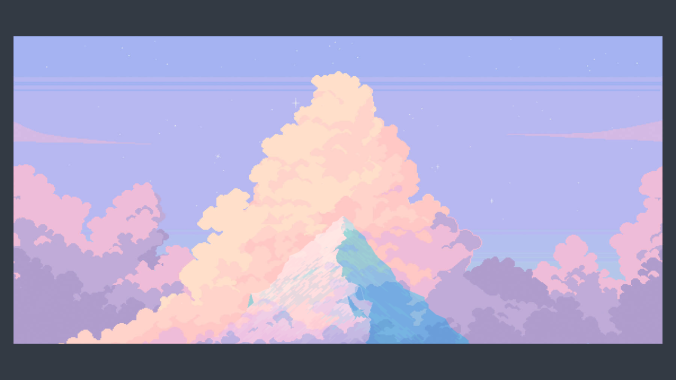
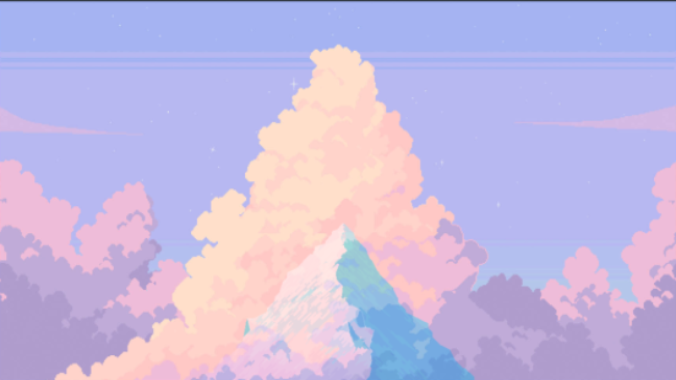
An update was made to the code to fix some images in the game.

diff --git a/code/Const.py b/code/Const.py
@@ -15,19 +15,19 @@ ENTITY_SPEED = {
     'Level1BG3': 3,
     'Level1BG4': 4,
     'Level2BG0': 0,
-    'Level2BG1': 1,
-    'Level2BG2': 2,
-    'Level2BG3': 3,
+    'Level2BG1': 0.50,
+    'Level2BG2': 1,
+    'Level2BG3': 2,
     'Level2BG4': 4,
     'Level3BG0': 0,
     'Level3BG1': 1,
-    'Level3BG2': 2,
-    'Level3BG3': 3,
+    'Level3BG2': 1,
+    'Level3BG3': 2,
     'Level3BG4': 4,
     'Level4BG0': 0,
-    'Level4BG1': 1,
-    'Level4BG2': 2,
-    'Level4BG3': 3,
+    'Level4BG1': 0.50,
+    'Level4BG2': 1,
+    'Level4BG3': 2,
     'ShipPlayer1': 4,
     'ShipPlayer1Shot': 2.5,
     'ShipPlayer2Shot': 2.5,
@@ -64,8 +64,7 @@ ENTITY_HEALTH = {
     'ShipEnemy1': 280,
     'ShipEnemy2': 300,
     'ShipEnemy1Shot': 1,
-    'ShipEnemy2Shot': 1,
-
+    'ShipEnemy2Shot': 1
 }
 EVENT_ENEMY = pg.USEREVENT + 1
 EVENT_TIMEOUT = pg.USEREVENT + 2
@@ -163,11 +162,11 @@ SCORE_POS = {
     6: (SCREEN_WIDTH / 2, 240),
     7: (SCREEN_WIDTH / 2, 260),
     8: (SCREEN_WIDTH / 2, 280),
-    9: (SCREEN_WIDTH / 2, 300),
+    9: (SCREEN_WIDTH / 2, 300)
 }
 # T
 TEXT_SIZE_TITLE = 120
 TEXT_SIZE_MENU = 45
 TEXT_SIZE = 20
 TIMEOUT_STEP = 100
-TIMEOUT_LEVEL = 20000
+TIMEOUT_LEVEL = 10000

diff --git a/code/Score.py b/code/Score.py
@@ -25,6 +25,8 @@ class Score:
         while True:
             self.screen.blit(source=self.surf, dest=self.rect)
             self.score_text(TEXT_SIZE_TITLE, 'YOU WIN!!', COLOR_YELLOW, SCORE_POS['Title'])
+            text = 'Enter Player 1 name [MAX(4) characters]'
+            score = player_score[0]
             if game_mode == MENU_OPTION[0]:
                 score = player_score[0]
                 text = 'Enter Player 1 name [MAX(4) characters]'
@@ -59,10 +61,12 @@ class Score:
 
     def show(self):
         pg.mixer_music.load('./asset/MusicScore.wav')
+        pg.mixer_music.set_volume(0.1)
         pg.mixer_music.play(-1)
         self.screen.blit(source=self.surf, dest=self.rect)
         self.score_text(48, 'TOP 10 SCORE', COLOR_BLACK, SCORE_POS['Title'])
-        self.score_text(20, 'NAME          SCORE          DATE          ', COLOR_BLACK, SCORE_POS['Label'])
+        self.score_text(20, 'NAME          SCORE          DATE          ',
+                        COLOR_BLACK, SCORE_POS['Label'])
         db_proxy = DBProxy('DBScore')
         list_score = db_proxy.retrieve_top10()
         db_proxy.close()

diff --git a/code/Game.py b/code/Game.py
@@ -37,11 +37,11 @@ class Game:
                     level_return = level.run(player_score)
                     if level_return:
                         score.save(menu_return, player_score)
-
             elif menu_return == MENU_OPTION[3]:
                 score.show()
             elif menu_return == MENU_OPTION[4]:
                 pg.quit()
                 quit()
             else:
-                pass
+                pg.quit()
+                quit()

diff --git a/code/Background.py b/code/Background.py
@@ -8,7 +8,7 @@ class Background(Entity):
     def __init__(self, name: str, position: tuple):
         super().__init__(name, position)
 
-    def move(self, ):
+    def move(self):
         self.rect.centerx -= ENTITY_SPEED[self.name]
         if self.rect.right <= 0:
             self.rect.left = SCREEN_WIDTH

diff --git a/code/Menu.py b/code/Menu.py
@@ -14,7 +14,7 @@ class Menu:
         self.surf = pg.image.load('./asset/MenuBG.png').convert_alpha()
         self.rect = self.surf.get_rect(left=0, top=0)
 
-    def run(self, ):
+    def run(self):
         menu_option = 0
         pg.mixer_music.load('./asset/MenuMusic.mp3')
         pg.mixer_music.play(-1)

diff --git a/code/Player.py b/code/Player.py
@@ -31,3 +31,5 @@ class Player(Entity):
             pressed_key = pg.key.get_pressed()
             if pressed_key[PLAYER_KEY_SHOOT[self.name]]:
                 return PlayerShot(name=f'{self.name}Shot', position=(self.rect.centerx, self.rect.centery))
+            return None
+        return None

diff --git a/code/EntityFactory.py b/code/EntityFactory.py
@@ -11,7 +11,7 @@ from code.Player import Player
 class EntityFactory:
 
     @staticmethod
-    def get_entity(entity_name: str, position=(0,0)):
+    def get_entity(entity_name: str):
         match entity_name:
             case 'Level1BG':
                 list_bg = []

diff --git a/code/Level.py b/code/Level.py
@@ -37,6 +37,7 @@ class Level:
 
     def run(self, player_score:list[int]):
         pg.mixer_music.load(f'./asset/{self.name}.mp3')
+        pg.mixer_music.set_volume(0.2)
         pg.mixer_music.play(-1)
         clock = pg.time.Clock()
         while True:

diff --git a/code/Entity.py b/code/Entity.py
@@ -19,6 +19,6 @@ class Entity(ABC):
         self.score = ENTITY_SCORE[self.name]
 
     @abstractmethod
-    def move(self, ):
+    def move(self):
         pass
 
